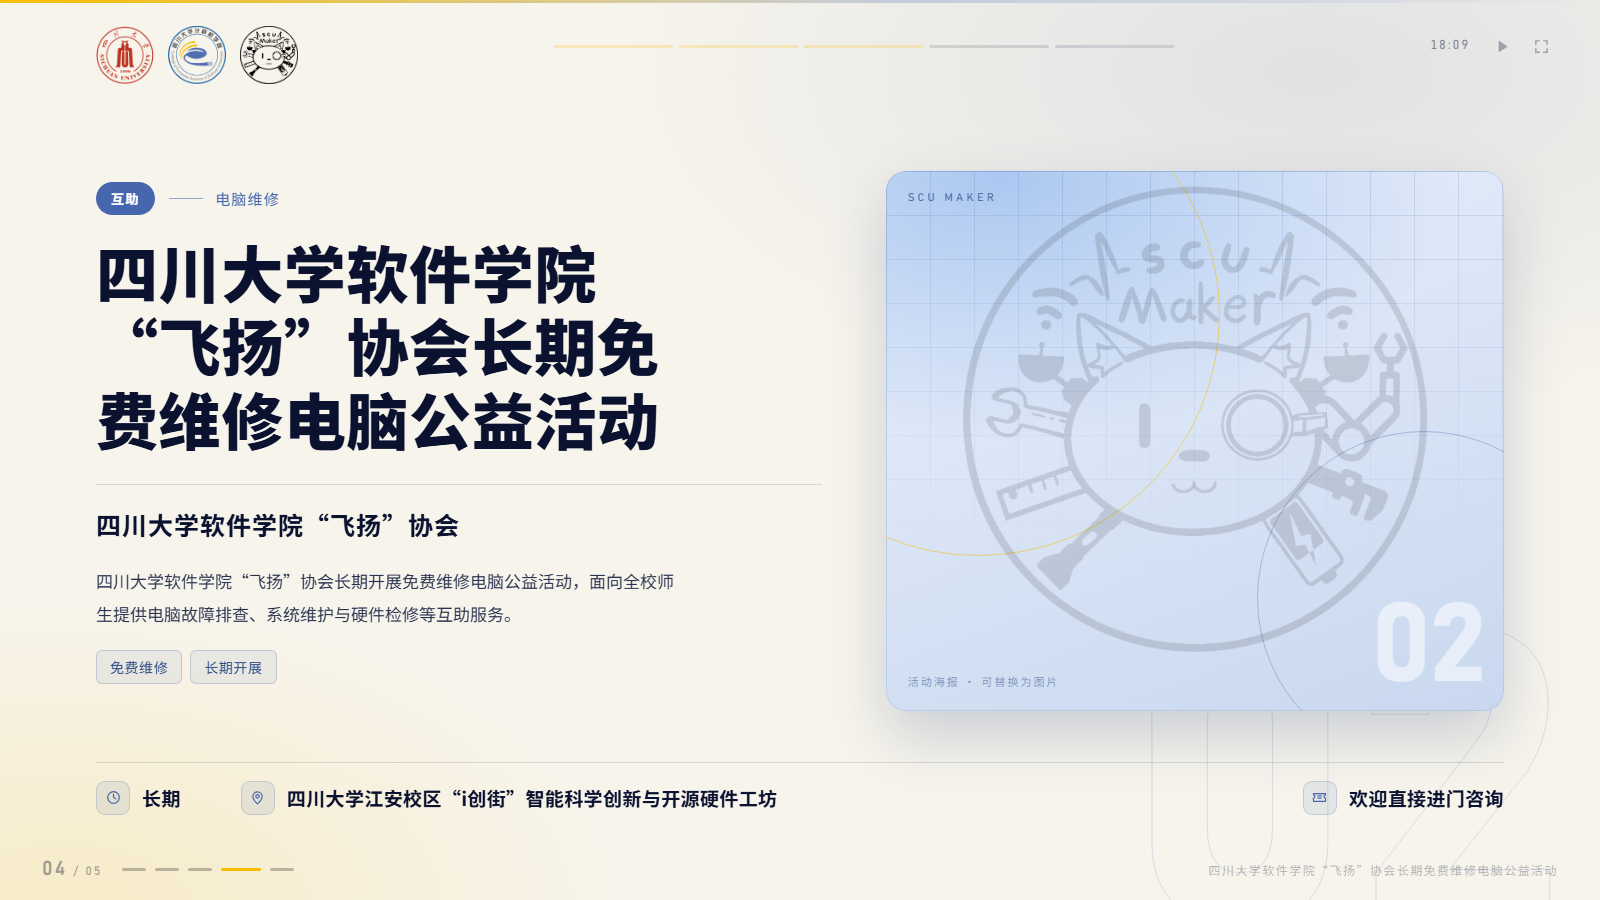
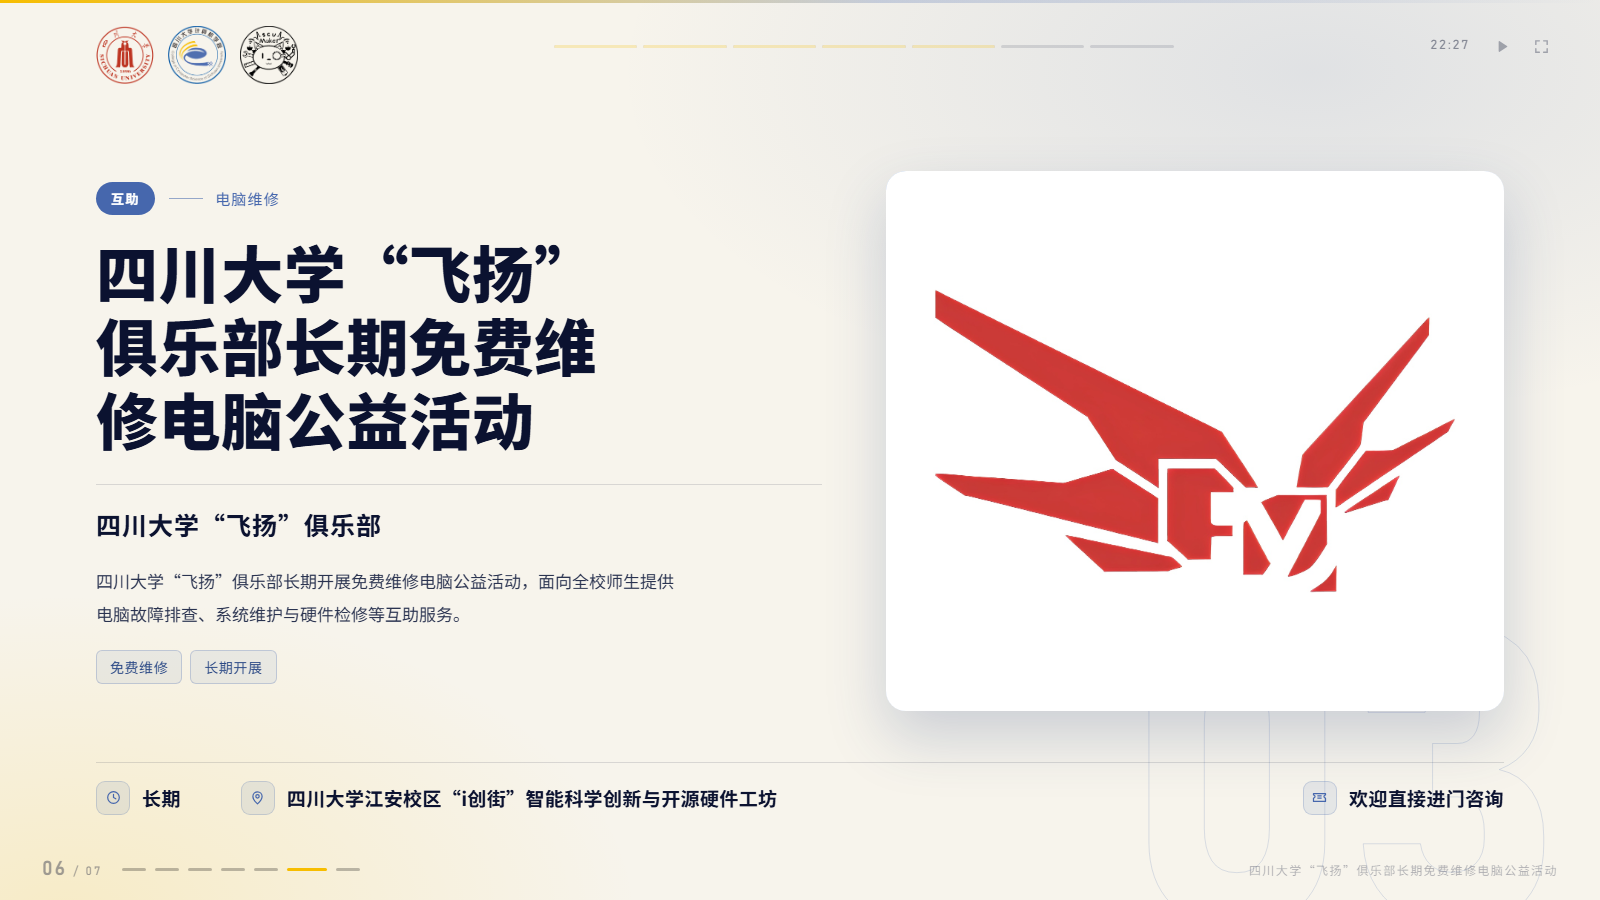
更新

diff --git a/js/config.js b/js/config.js
@@ -78,6 +78,44 @@ window.CONFIG = {
    * ---------------------------------------------------------------------- */
   posters: [
     {
+      // 长期举办的活动：date 留空，weekday 写「长期 / Ongoing service」即可
+      date: '',
+      weekday: '长期',
+      weekdayEn: 'Ongoing service',
+      color: '#7aa8e8',
+      duration: 10000,
+      image: '',
+      qr: '',
+
+      zh: {
+        tag: '创意分享',
+        category: '来SCU Maker，分享你的创意',
+        title: 'SCU Maker期待您能加入我们，分享您的创意',
+        speaker: 'SCU Maker',
+        speakerTitle: '',
+        time: '',
+        place: '“i创街”智能科学创新与开源硬件工坊 & 二基楼B101',
+        description: '',
+        highlights: ['物料提供', '教师指导', '竞赛', '长期开展'],
+        entry: '向全体四川大学师生开放',
+        qrText: '向全体四川大学师生开放'
+      },
+
+      en: {
+        tag: 'Creative Sharing',
+        category: 'Come to SCU Maker and Share Your Ideas',
+        title: 'SCU Maker Looks Forward to You Joining Us and Sharing Your Ideas',
+        speaker: 'SCU Maker',
+        speakerTitle: '',
+        time: '',
+        place: '',
+        description: '',
+        highlights: ['Materials Provided', 'Teacher Guidance', 'Competitions', 'Long-term Operation'],
+        entry: 'Open to all faculty and students of Sichuan University',
+        qrText: 'Open to all faculty and students of Sichuan University'
+      }
+    },
+    {
       date: '2026.11.22',
       weekday: '周日',
       weekdayEn: 'Sun',
@@ -114,7 +152,6 @@ window.CONFIG = {
         qrText: 'Check in on site'
       }
     },
-
     {
       // 长期举办的活动：date 留空，weekday 写「长期 / Ongoing service」即可
       date: '',
@@ -122,46 +159,11 @@ window.CONFIG = {
       weekdayEn: 'Ongoing service',
       color: '#7aa8e8',
       duration: 10000,
-      image: '',
-      qr: '',
-
-      zh: {
-        tag: '创意分享',
-        category: '来SCU Maker，分享你的创意',
-        title: 'SCU Maker期待您能加入我们，分享您的创意',
-        speaker: 'SCU Maker',
-        speakerTitle: '',
-        time: '',
-        place: '四川大学江安校区“i创街”智能科学创新与开源硬件工坊 & 四川大学江安校区二基楼B101',
-        description: '',
-        highlights: ['物料提供', '教师指导', '竞赛', '长期开展'],
-        entry: '向全体四川大学师生开放',
-        qrText: '向全体四川大学师生开放'
-      },
-
-      en: {
-        tag: 'Creative Sharing',
-        category: 'Come to SCU Maker and Share Your Ideas',
-        title: 'SCU Maker Looks Forward to You Joining Us and Sharing Your Ideas',
-        speaker: 'SCU Maker',
-        speakerTitle: '',
-        time: '',
-        place: '"i-Innovation Street" Intelligent Science Innovation & Open-Source Hardware Workshop, Jiang\'an Campus, Sichuan University & Room B101, No. 2 Basic Experiment Building, Jiang\'an Campus, Sichuan University',
-        description: '',
-        highlights: ['Materials Provided', 'Teacher Guidance', 'Competitions', 'Long-term Operation'],
-        entry: 'Open to all faculty and students of Sichuan University',
-        qrText: 'Open to all faculty and students of Sichuan University'
-      }
-    },
-
-    {
-      // 长期举办的活动：date 留空，weekday 写「长期 / Ongoing service」即可
-      date: '',
-      weekday: '长期',
-      weekdayEn: 'Ongoing service',
-      color: '#7aa8e8',
-      duration: 10000,
-      image: '',
+      // 海报主视觉：白底版（原图是抠图 PNG，直接放会有透明背景，这里用合成好的白底 JPG）
+      image: 'assets/飞扬_logo_white_bg.jpg',
+      imageLogo: true,          // 标志类图片：完整显示不裁切（换成活动照片时删掉这行）
+      // 其它可选：'assets/飞扬_logo_paper_bg.jpg'（米白底，和页面更融合）
+      //           'assets/飞扬_logo.png'（原透明底 PNG）
       qr: '',
 
       zh: {
@@ -185,7 +187,7 @@ window.CONFIG = {
         speaker: '"Feiyang" Club, Sichuan University',
         speakerTitle: '',
         time: '',
-        place: '"i-Chuang Street" Intelligent Science Innovation & Open-Source Hardware Offense-Defense Workshop, Jiang\'an Campus, Sichuan University',
+        place: '"i-Chuang Street" Intelligent Science Innovation & Open-Source Hardware Workshop, Jiang\'an Campus, Sichuan University',
         description: 'The "Feiyang" Club, Sichuan University runs an ongoing free computer repair charity service, offering troubleshooting, system maintenance, and hardware repair to students and faculty.',
         highlights: ['Free repair', 'Ongoing service'],
         entry: 'Walk in and ask — no appointment needed',

diff --git a/css/style.css b/css/style.css
@@ -977,3 +977,32 @@ body.lowfx .cut-bg .ghost { opacity: 0.03; }
 @supports not (background: conic-gradient(#000, #fff)) {
   .intro-slide.after .logo-final::after { display: none; }
 }
+/* ==========================================================================
+   海报主视觉：两种放图方式
+   1) 默认（活动实拍照片）  object-fit: cover 铺满，会裁切
+   2) .logo-image 模式（协会标志 / 报名海报） object-fit: contain 完整显示不裁切
+      config.js 里把该活动的 image 指向标志图，并在 style.css 里加 class 即可，
+      这里默认对带有 data-logo="1" 的视觉区生效。
+   ========================================================================== */
+
+/* 已经是“白底/米白底”的成品图：铺满整个视觉区，不再加 padding */
+.p-visual[data-logo="1"] > img.photo {
+  object-fit: contain;
+  padding: 0;
+  z-index: 3;
+}
+
+/* 透明底 PNG / 需要留白的标志：额外加 padding（config 里写 imagePad: true） */
+.p-visual[data-logo="pad"] > img.photo {
+  object-fit: contain;
+  padding: 9% 8%;
+  z-index: 3;
+}
+
+/* 标志类图片时，淡化背景装饰，让标志成为主角 */
+.p-visual[data-logo="1"] .grid-deco { opacity: 0.45; }
+.p-visual[data-logo="1"] .mark { opacity: 0.05; }
+.p-visual[data-logo="1"] .arc { opacity: 0.5; }
+
+/* 数字角标在标志图上会更清晰 */
+.p-visual[data-logo="1"] > .hint { display: none; }

diff --git a/js/poster.js b/js/poster.js
@@ -86,6 +86,11 @@
 
     var photo = d.image ? '<img class="photo" src="' + esc(d.image) + '" alt="">' : '';
 
+    // 标志类图片（协会 Logo / 标识）：用 contain 完整显示，不裁切
+    //   在 config.js 里给活动加 imageLogo: true 即可
+    var isLogoImg = !!(p.imageLogo || d.imageLogo || d.imageMode === 'logo');
+    var logoMode = isLogoImg ? (p.imagePad ? 'pad' : '1') : '';
+
     var qr = d.qr
       ? '<div class="qr-card"><div class="qr-box"><img src="' + esc(d.qr) + '" alt="QR"></div><p>' + esc(d.qrText || '') + '</p></div>'
       : '';
@@ -109,7 +114,7 @@
             chips +
           '</div>' +
           '<div class="poster-side reveal">' +
-            '<div class="p-visual">' +
+            '<div class="p-visual"' + (logoMode ? ' data-logo="' + logoMode + '"' : '') + '>' +
               '<div class="grid-deco"></div>' +
               '<div class="arc a1"></div>' +
               '<div class="arc a2"></div>' +
